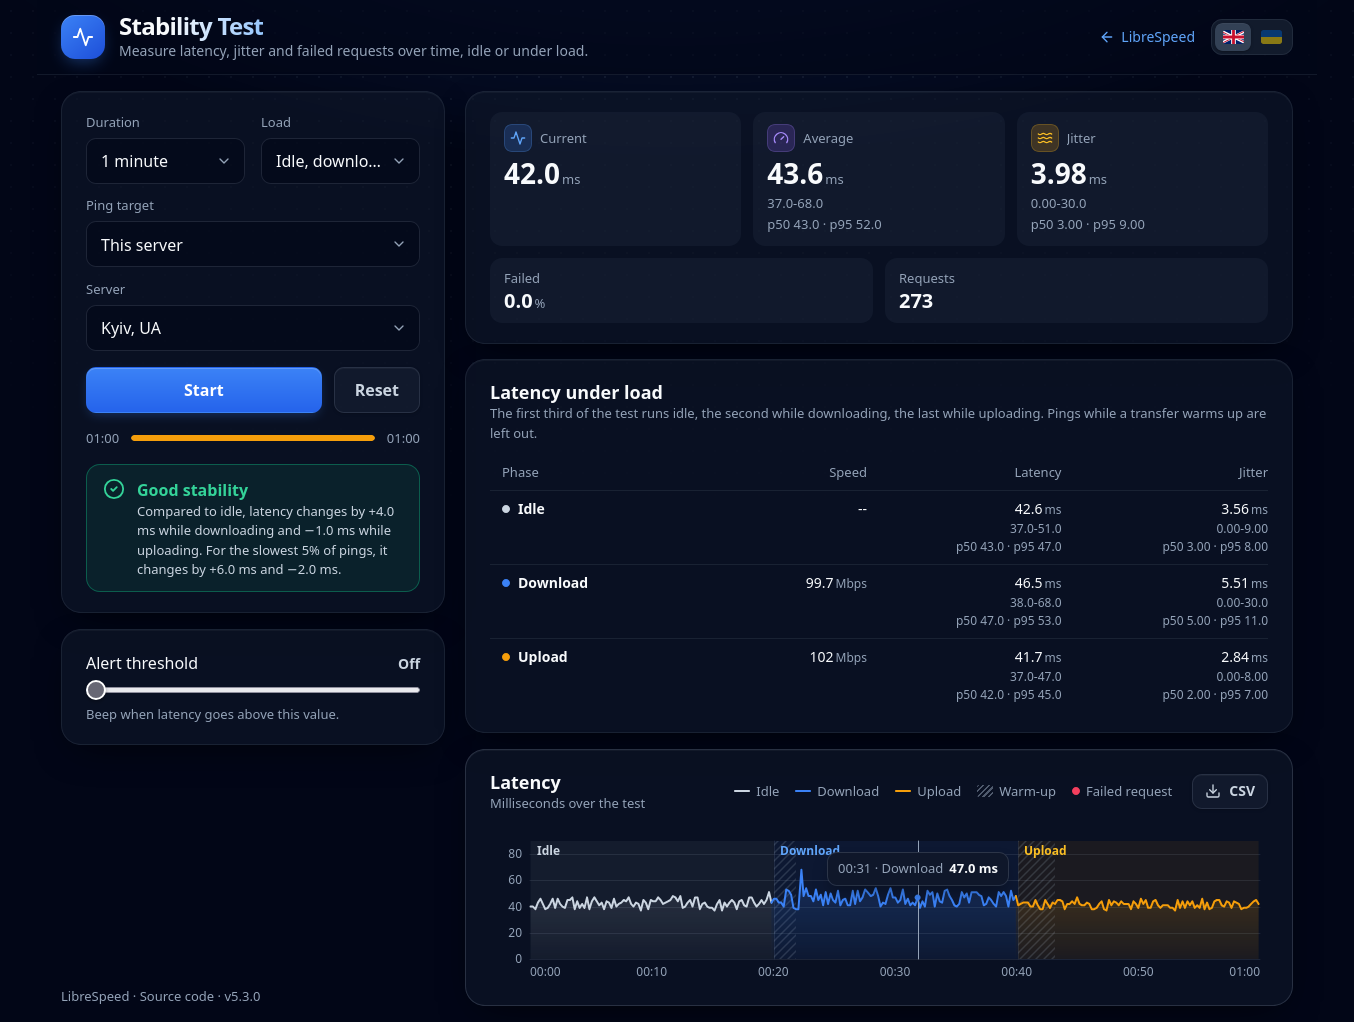
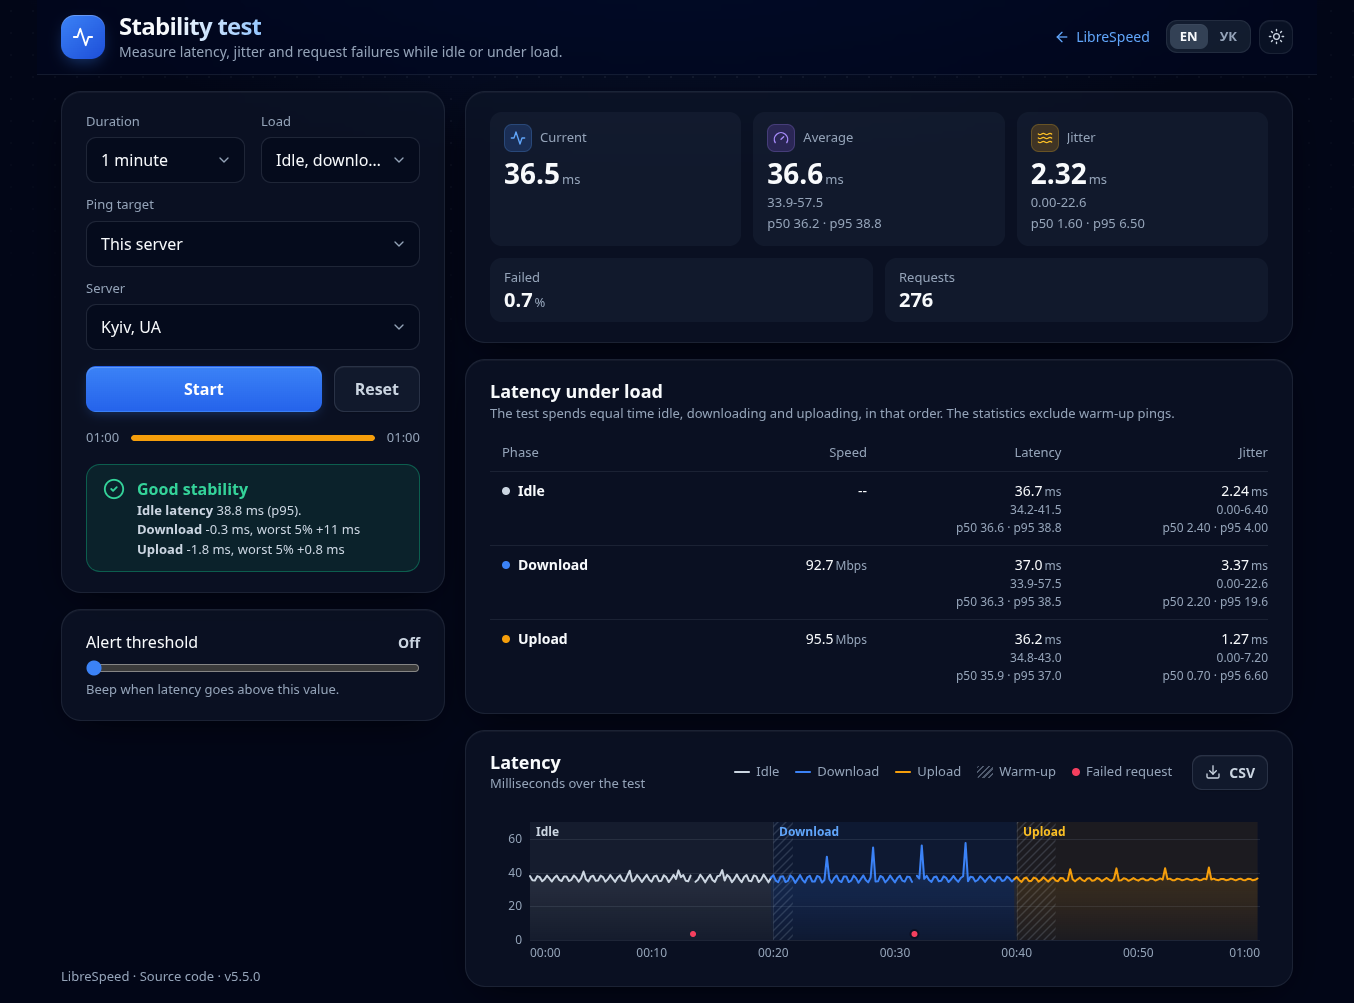
docs(readme): describe and show the new result summaries
Explain the stability comparisons and the three-line speed summary.
Refresh the speed, stability and statistics screenshots for v5.5.0.

diff --git a/README.md b/README.md
@@ -33,13 +33,14 @@ The [upstream notes](docs/upstream.md) list the commits we've reviewed and what 
 * Download and upload speed, ping and jitter, with a live speed chart
 * A progress bar that changes color as the speed test moves through its phases
 * Latency and jitter while downloading and uploading, after each transfer's warm-up
+* A speed test summary with separate lines for idle latency, download and upload
 * Jitter as the average change between consecutive pings, shown with the smallest and largest change
 * IP address, ISP and country of the client
 * Connection stability test at `/stability/`, with latency over time, jitter, the p50 and p95 of both, failed
   requests, an alert threshold and CSV export. It runs idle, while downloading, while uploading, or all three in turn.
-  It shows the latency of each phase and leaves out the pings while a transfer warms up. The result compares the
-  middle ping and the p95 under each load with idle. Add `?load=download`, `?load=upload` or `?load=all` to the
-  address to open it with that load picked.
+  It shows latency for each phase and leaves out warm-up pings. Under load, the summary compares p95 and the average
+  of the slowest 5% of pings with their idle values. Add `?load=download`, `?load=upload` or `?load=all` to the address
+  to choose the load when you open the page.
   [How the stability test works](docs/stability.md) shows its timers, workers and warm-ups in diagrams
 * Optional result storage, with a shareable result image, a JSON API and a password-protected statistics page
 * Multiple test servers to choose from
